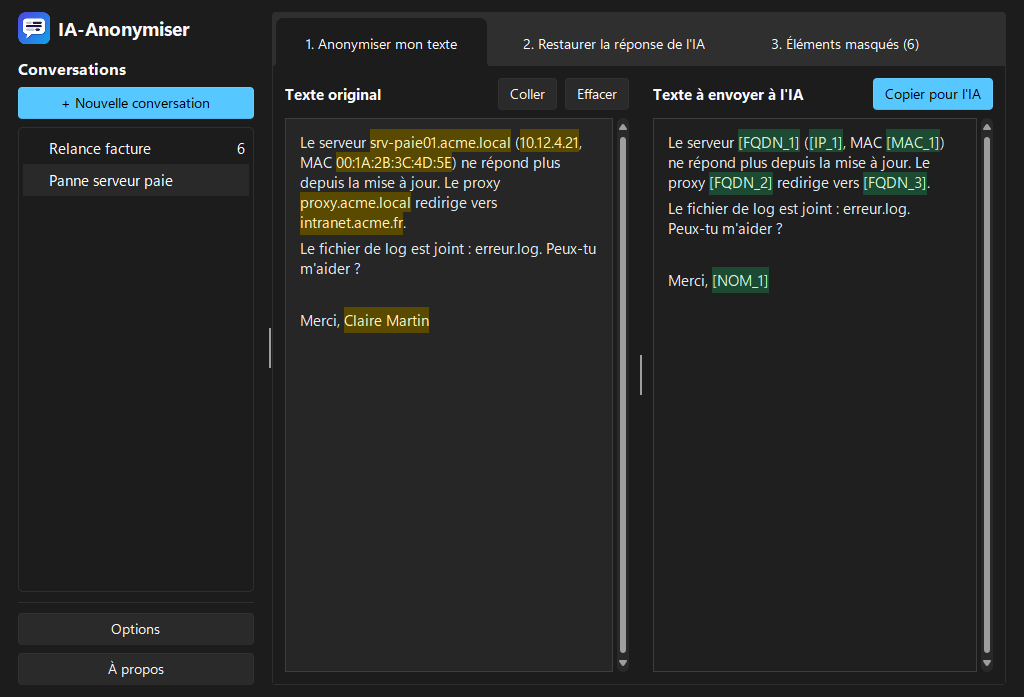
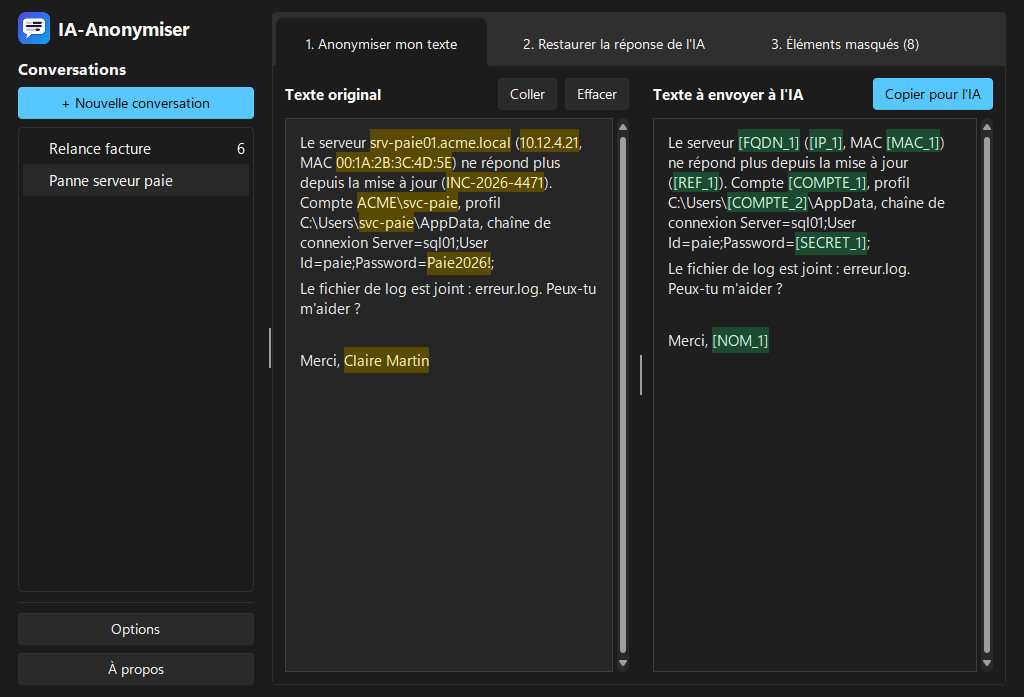
README : détection pour administrateurs
Claude-Session: https://claude.ai/code/session_01HRDvkQPwDqhkpwtVeyn17T

Changed region(s): [[0.2812, 0.241, 0.5938, 0.5423], [0.6562, 0.2109, 0.9375, 0.4218], [0.6562, 0.4519, 0.75, 0.5122]]

diff --git a/README.md b/README.md
@@ -30,9 +30,16 @@ Les conversations sont conservées d'un lancement à l'autre : vous pouvez resta
 
 ### Ce qui est masqué
 
-- **Automatiquement** : e-mails, téléphones (France et international), IBAN, cartes bancaires, numéros de sécurité sociale, adresses IP, adresses MAC, noms de domaine (FQDN, par exemple `srv01.acme.local`). Les noms de fichiers comme `rapport.pdf` ne sont pas pris pour des domaines.
+- **Automatiquement** :
+  - données personnelles : e-mails, téléphones (France et international), IBAN, cartes bancaires, numéros de sécurité sociale ;
+  - réseau : adresses IP, adresses MAC, noms de domaine (FQDN, par exemple `srv01.acme.local`) ;
+  - **secrets** : `password=…`, `pwd:`, `token=`, `api_key=`, chaînes de connexion, `Authorization: Bearer …`, identifiants dans une URL (`https://user:motdepasse@…`), clés AWS, GitHub, GitLab, Slack, OpenAI, Anthropic et Google, jetons JWT, clés privées. Seule la valeur est masquée (`password=[SECRET_1]`), pour que l'IA comprenne encore de quoi il s'agit ;
+  - **comptes et annuaire** : `ACME\mlefevre`, le nom d'utilisateur dans `C:\Users\…` et `/home/…`, les DN Active Directory (`CN=…,OU=…,DC=…`), les SID Windows.
+- **Motifs personnalisés** : vos conventions de nommage, sous forme d'expressions régulières, dans **Options → Motifs personnalisés**. Par exemple `PC-\d{4}` pour les postes, `INC-\d{4}-\d+` pour les tickets, `SRV-[A-Z]+\d*` pour les serveurs.
 - **Termes permanents** : le nom de votre entreprise, de vos clients, de vos collègues… Ils se règlent dans **Options**, sont enregistrés et s'appliquent à toutes les conversations.
 - **Termes de la conversation** : un nom qui ne concerne que cette discussion. Ajoutez-le dans l'onglet **3. Éléments masqués**, ou sélectionnez-le dans le texte puis clic droit → **Masquer** (ou **Ctrl+M**). Le bouton **Toujours masquer** en fait un terme permanent.
+
+Ce qui reste volontairement en clair : les noms de fichiers (`rapport.pdf`, `backup.tar.gz`), les numéros de version, les noms de classes et les clés de configuration (`java.lang.NullPointerException`, `spring.datasource.url`), les comptes système (`NT AUTHORITY\SYSTEM`, `BUILTIN\Administrators`), les chemins de registre (`HKLM\…`) et les SID système (`S-1-5-18`).
 
 ![Onglet Éléments masqués](docs/clair-elements.png)
 
@@ -44,6 +51,7 @@ Pour laisser un élément en clair, faites un clic droit dessus → **Ne pas mas
 
 - **Détection** : cochez les types de données à masquer automatiquement.
 - **Termes permanents** : la liste des termes toujours masqués.
+- **Motifs personnalisés** : vos expressions régulières. En ajoutant un motif, vous voyez combien de fois il apparaît dans le texte en cours.
 - **Consigne pour l'IA** : un texte ajouté au début de ce que vous copiez, qui demande à l'IA de garder les jetons tels quels. Vous pouvez le modifier, le désactiver ou rétablir le texte par défaut.
 - **Général** :
   - la langue (automatique, français ou anglais) ;
@@ -62,7 +70,12 @@ En anglais, les jetons sont aussi traduits : `[NAME_1]`, `[PHONE_1]`, `[CARD_1]`
 
 ## Limites
 
-La détection repose sur des motifs. Elle ne reconnaît pas un nom qui ne figure pas dans vos termes, une adresse postale doit être ajoutée comme terme, et un nom de machine sans point (`SRV-PAIE01`) aussi. À l'inverse, la détection des FQDN peut masquer des mots comme `ASP.NET` : faites un clic droit → **Ne pas masquer** pour les laisser en clair. **Relisez toujours le texte de droite avant de l'envoyer.**
+La détection repose sur des motifs : elle ne peut pas être parfaite.
+
+- Un nom de personne n'est masqué que s'il figure dans vos termes. Une adresse postale doit aussi être ajoutée comme terme.
+- Un nom de machine sans point (`SRV-PAIE01`) n'est masqué que par un motif personnalisé.
+- Un mot de passe n'est reconnu que s'il a une forme reconnaissable (`password=…`, une clé connue…). Écrit seul au milieu d'une phrase, il ne se distingue pas d'un mot ordinaire.
+- À l'inverse, un élément peut être masqué à tort : faites un clic droit → **Ne pas masquer** pour le laisser en clair. **Relisez toujours le texte de droite avant de l'envoyer.**
 
 ## Vérifier le téléchargement
 
